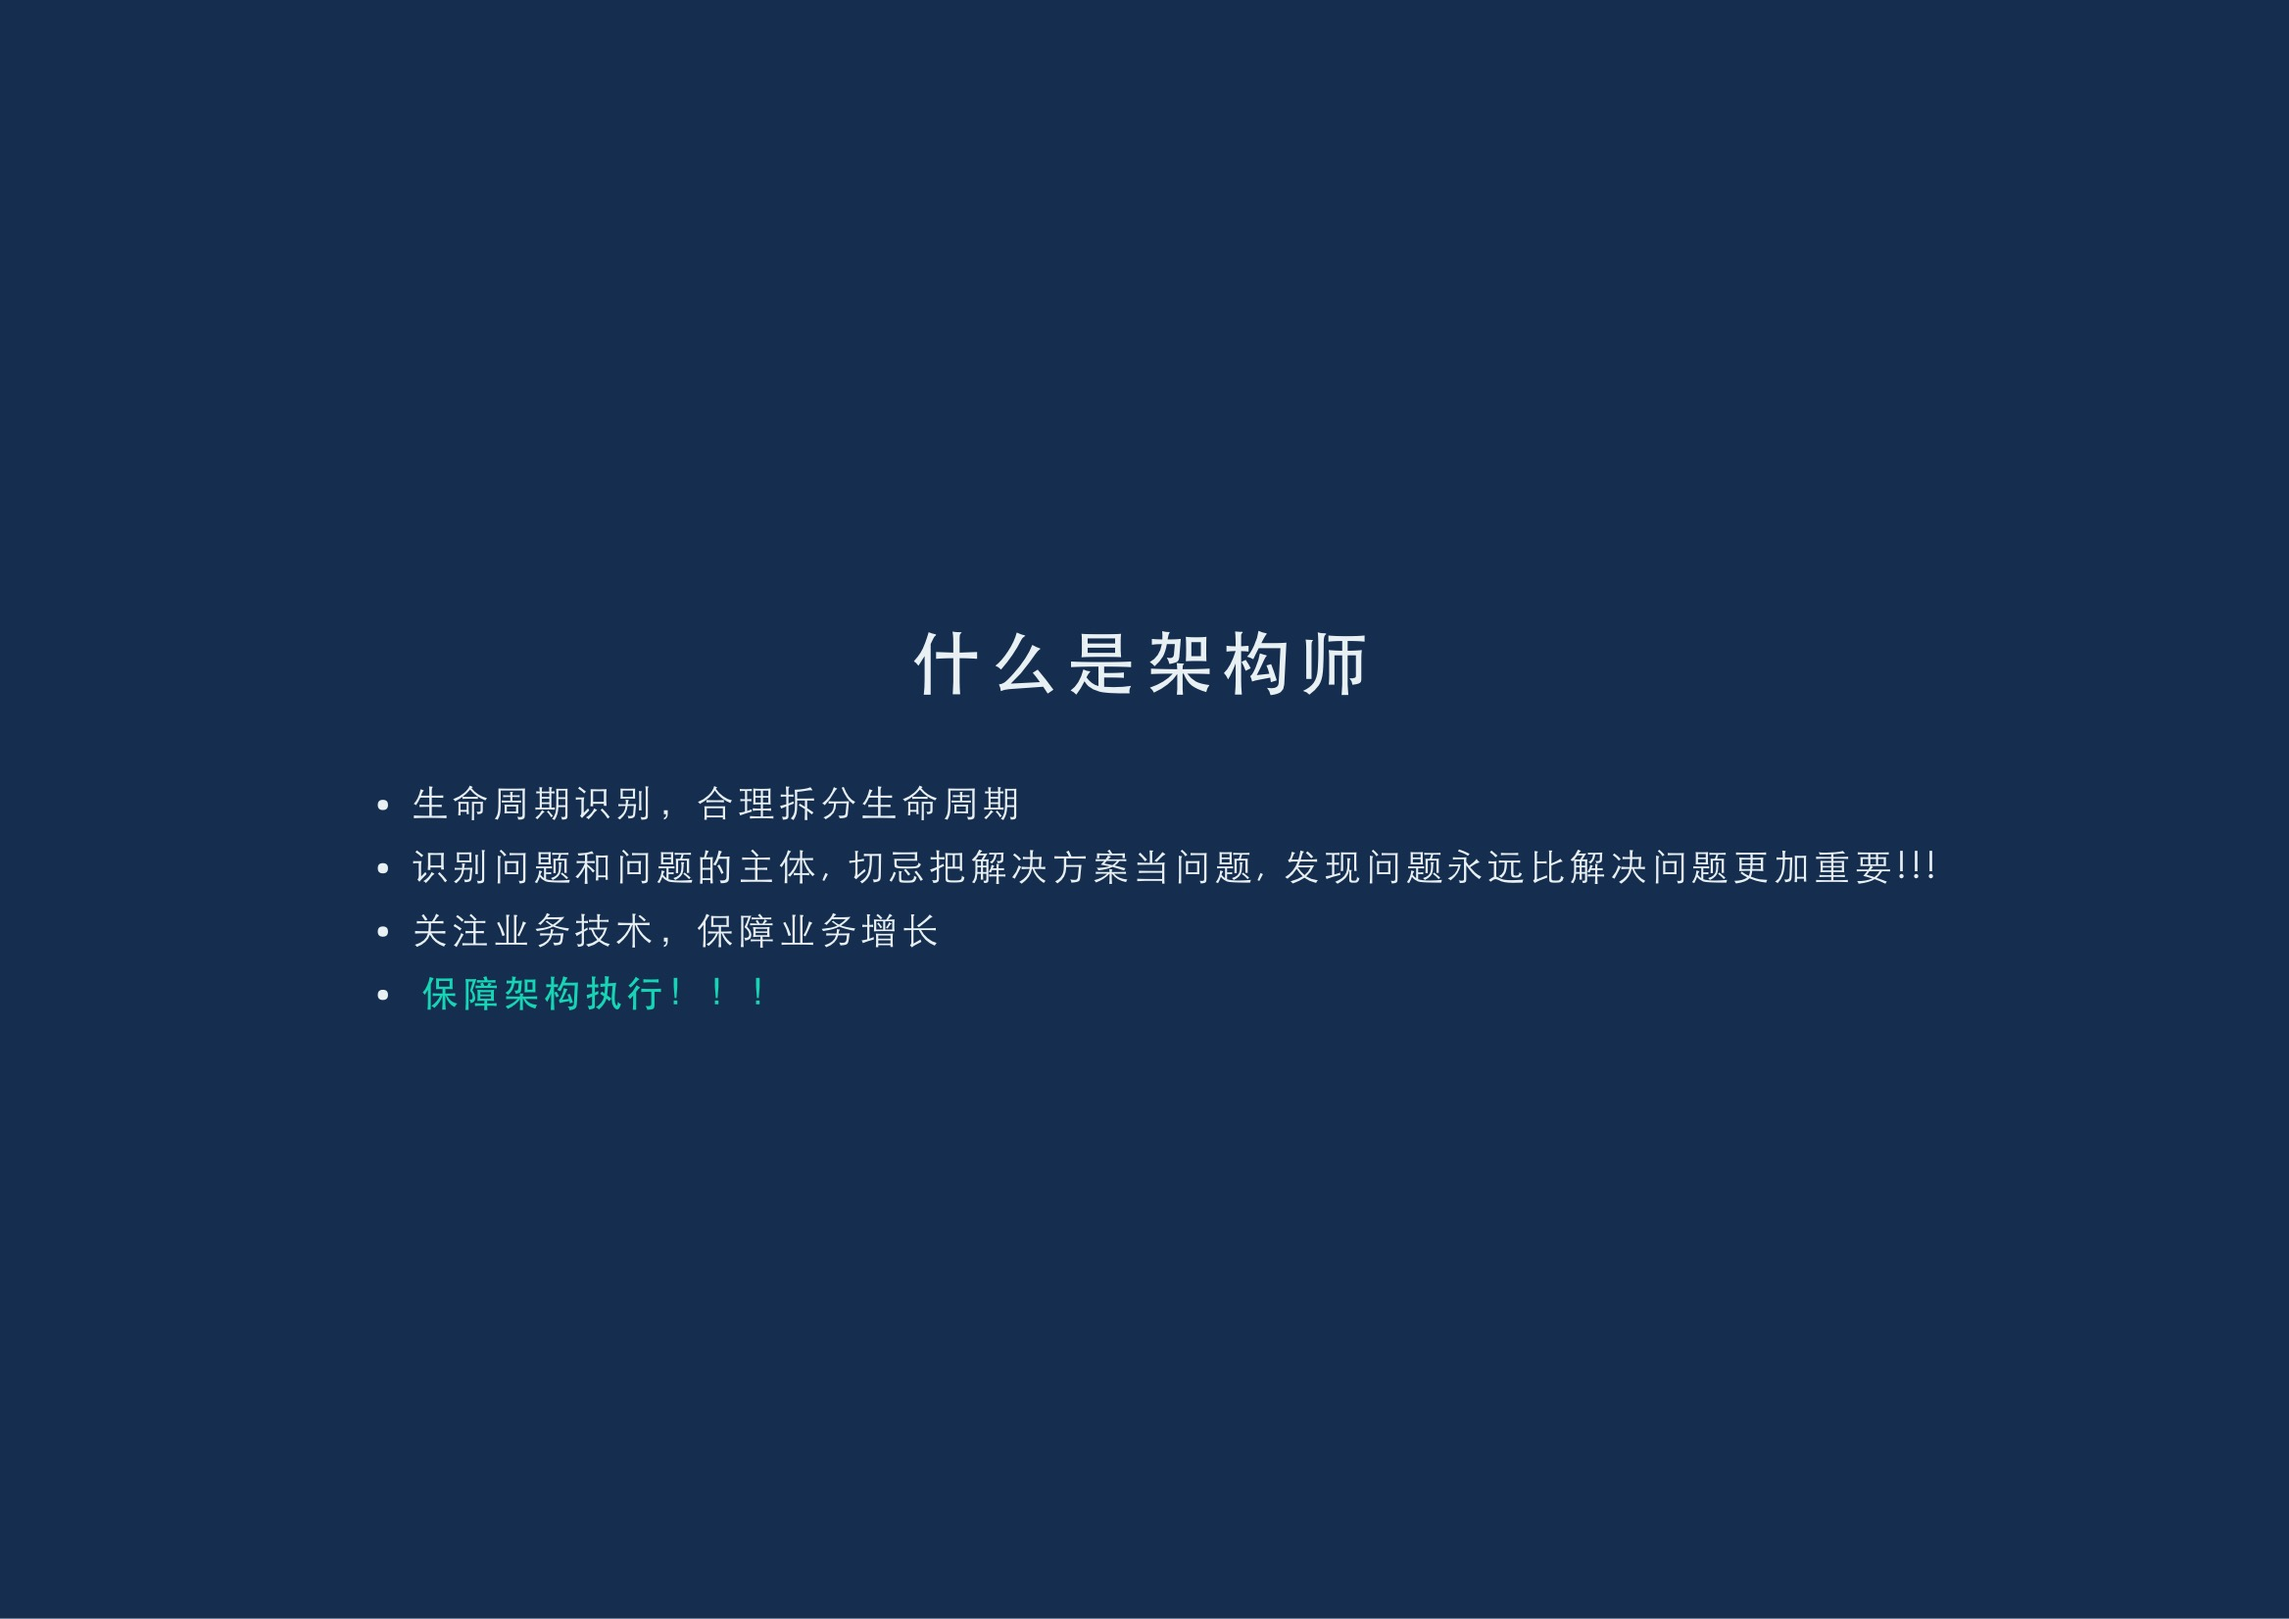
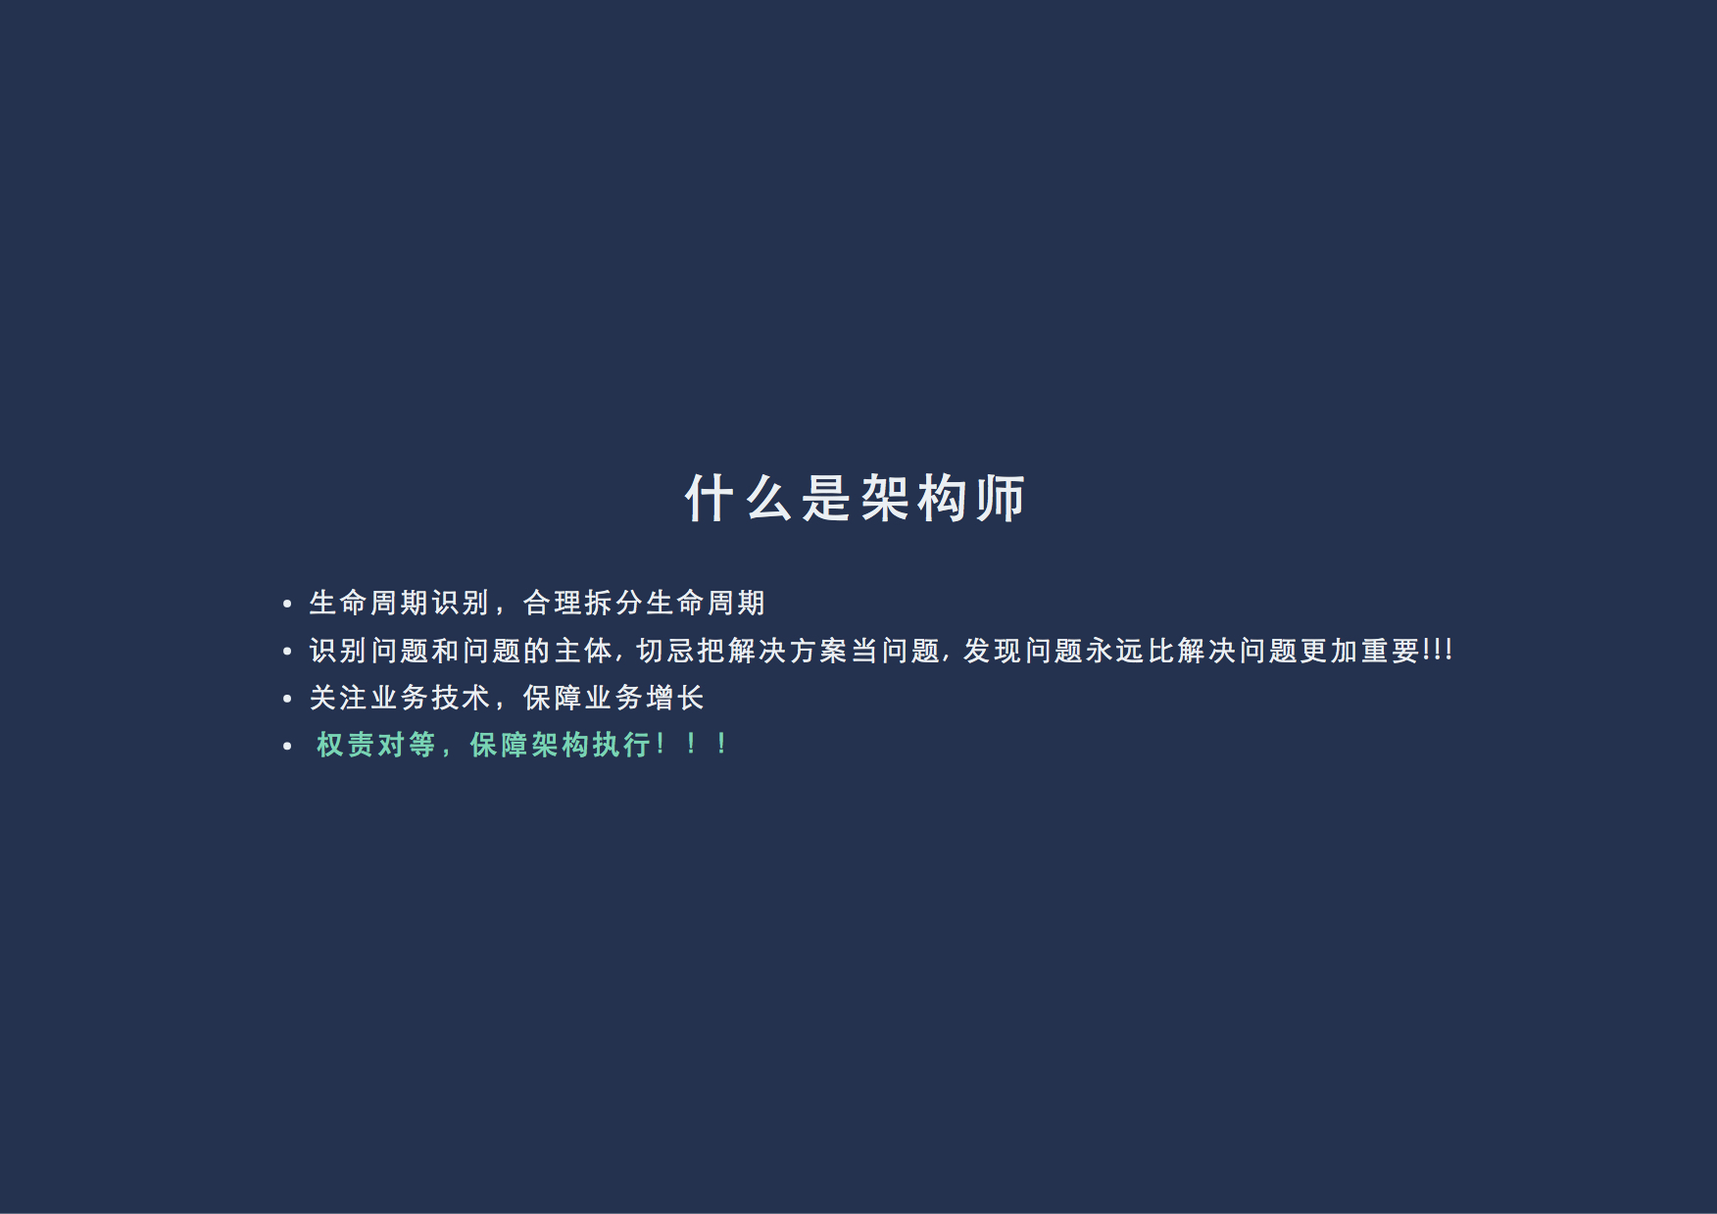
Site updated at 2017-08-30 08:33:39 UTC

Changed region(s): [[0.1849, 0.4907, 0.8322, 0.6441], [0.4007, 0.3987, 0.6164, 0.4294]]

diff --git a/arch-ppt/index.html b/arch-ppt/index.html
@@ -203,7 +203,7 @@
 <li>生命周期识别，合理拆分生命周期</li>
 <li>识别问题和问题的主体, 切忌把解决方案当问题, 发现问题永远比解决问题更加重要!!!</li>
 <li>关注业务技术，保障业务增长</li>
-<li><strong>保障架构执行！！！</strong></li>
+<li><strong>权责对等，保障架构执行！！！</strong></li>
 </ul>
 
 </article></section></slide>
@@ -303,7 +303,7 @@
 <li><strong>异步</strong>：队列缓冲、异步请求。</li>
 <li><strong>并发</strong>：利用多CPU多线程执行业务逻辑。</li>
 <li><strong>就近原则</strong>：缓存、梯度存储。</li>
-<li><strong>减少IO</strong>：合并细粒度接口为粗粒度接口、频繁的覆盖操作可以只做最后一次操作。这里一个需要特别注意的地方: <strong>代码中务必不要在循环中调用外部服务，更好的做法是使用粗粒度批量接口在循环外面只进行一次请求。</strong></li>
+<li><strong>减少IO</strong>：合并细粒度接口为粗粒度接口、频繁的覆盖操作可以只做最后一次操作。这里一个需要特别注意的地方: <strong>代码中尽量避免在循环中调用外部服务，更好的做法是使用粗粒度批量接口在循环外面只进行一次请求。</strong></li>
 <li><strong>分区</strong>：频繁访问的数据集规模保持在合理的范围。</li>
 </ul>
 
